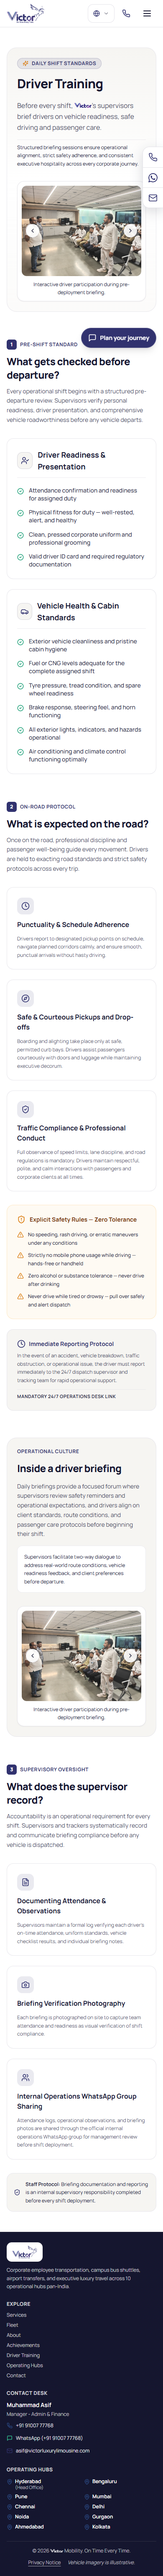
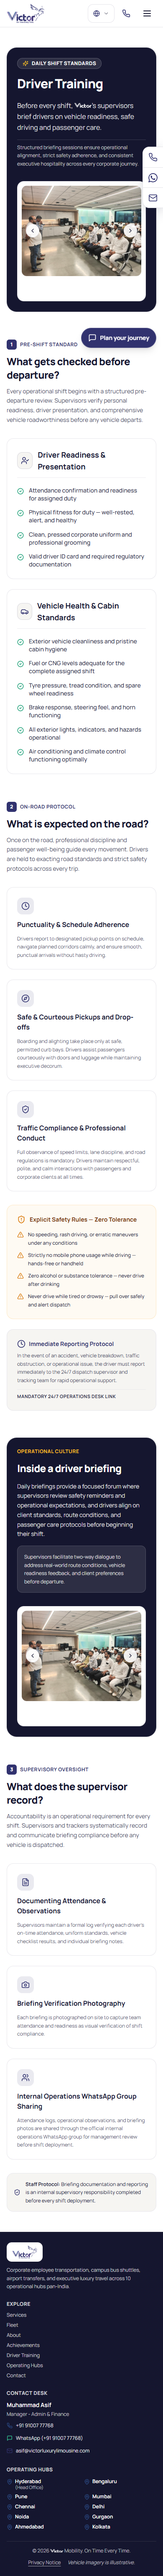
updated driver training page

Changed region(s): [[0.0308, 0.5608, 0.9846, 0.6855], [0.0308, 0.0, 0.9846, 0.1246]]

diff --git a/src/components/training/DriverTrainingGuide.tsx b/src/components/training/DriverTrainingGuide.tsx
@@ -30,28 +30,28 @@ export default function DriverTrainingGuide({ content }: DriverTrainingGuideProp
       {/* 1. Hero & Introduction Section with Group Briefing Photo (Image 1) */}
       <section
         aria-labelledby="driver-training-hero-title"
-        className="rounded-3xl bg-gradient-to-b from-brand-warm-white via-white to-brand-warm-white/40 border border-brand-soft-neutral/80 p-6 sm:p-10 lg:p-12 shadow-xs"
+        className="rounded-3xl bg-[#15162F] border border-white/10 p-6 sm:p-10 lg:p-12 shadow-xs text-white"
       >
         <div className="grid grid-cols-1 lg:grid-cols-12 gap-8 lg:gap-10 xl:gap-12 items-center">
           {/* Left Column: Heading and Introduction */}
           <div className="lg:col-span-6 space-y-4">
-            <div className="inline-flex items-center gap-2 px-3 py-1 rounded-full bg-brand-indigo/10 border border-brand-indigo/20 text-brand-indigo text-xs font-bold uppercase tracking-wider">
-              <Sparkles className="w-3.5 h-3.5 text-amber-600" />
+            <div className="inline-flex items-center gap-2 px-3 py-1 rounded-full bg-white/10 border border-white/20 text-white text-xs font-bold uppercase tracking-wider">
+              <Sparkles className="w-3.5 h-3.5 text-amber-400" />
               <span>{eyebrow}</span>
             </div>
 
             <h1
               id="driver-training-hero-title"
-              className="text-3xl sm:text-4xl lg:text-5xl font-extrabold text-brand-ink tracking-tight leading-tight"
+              className="text-3xl sm:text-4xl lg:text-5xl font-extrabold text-white tracking-tight leading-tight"
             >
               <BrandText>{title}</BrandText>
             </h1>
 
-            <p className="text-base sm:text-lg text-brand-ink/80 leading-relaxed font-normal pt-1">
+            <p className="text-base sm:text-lg text-white/85 leading-relaxed font-normal pt-1">
               <BrandText>{intro}</BrandText>
             </p>
 
-            <div className="pt-2 text-xs sm:text-sm text-brand-slate leading-relaxed border-t border-brand-soft-neutral/70">
+            <div className="pt-2 text-xs sm:text-sm text-white/70 leading-relaxed border-t border-white/15">
               <p>
                 Structured briefing sessions ensure operational alignment, strict safety adherence, and consistent executive hospitality across every corporate journey.
               </p>
@@ -231,7 +231,7 @@ export default function DriverTrainingGuide({ content }: DriverTrainingGuideProp
       <section
         id={insideBriefing.id}
         aria-labelledby="inside-briefing-heading"
-        className="rounded-3xl bg-brand-warm-white border border-brand-soft-neutral/80 p-6 sm:p-10 lg:p-12 shadow-xs"
+        className="rounded-3xl bg-[#15162F] border border-white/10 p-6 sm:p-10 lg:p-12 shadow-xs text-white"
       >
         <div className="grid grid-cols-1 lg:grid-cols-12 gap-8 lg:gap-10 items-center">
           {/* Bottom Slideshow: Exactly the same collection of 9 photographs */}
@@ -244,19 +244,19 @@ export default function DriverTrainingGuide({ content }: DriverTrainingGuideProp
 
           {/* Contextual Narrative */}
           <div className="lg:col-span-6 space-y-4 order-1 lg:order-2">
-            <span className="uppercase text-brand-indigo font-bold text-xs tracking-wider block">
+            <span className="uppercase text-amber-400 font-bold text-xs tracking-wider block">
               Operational Culture
             </span>
             <h2
               id="inside-briefing-heading"
-              className="text-2xl sm:text-3xl lg:text-4xl font-extrabold text-brand-ink tracking-tight"
+              className="text-2xl sm:text-3xl lg:text-4xl font-extrabold text-white tracking-tight"
             >
               <BrandText>{insideBriefing.title}</BrandText>
             </h2>
-            <p className="text-sm sm:text-base text-brand-ink/80 leading-relaxed font-normal">
+            <p className="text-sm sm:text-base text-white/85 leading-relaxed font-normal">
               <BrandText>{insideBriefing.description}</BrandText>
             </p>
-            <div className="p-4 rounded-xl bg-white border border-brand-soft-neutral/70 text-xs text-brand-slate leading-relaxed">
+            <div className="p-4 rounded-xl bg-white/10 border border-white/15 text-xs text-white/80 leading-relaxed">
               Supervisors facilitate two-way dialogue to address real-world route conditions, vehicle readiness feedback, and client preferences before departure.
             </div>
           </div>

diff --git a/docs/handoff.md b/docs/handoff.md
@@ -1,5 +1,38 @@
 # Handoff
 
+## 20 November 2026 — Driver Training Page Dark Container Styling (#15162F)
+
+Owner: Antigravity, at direct user request. Status: COMPLETED.
+
+Updated the background color of the **Daily Shift Standards** (hero) and **Operational Culture** (Inside a driver briefing) containers on the Driver Training page ([`/india/driver-training`](file:///d:/victor%20website/src/app/india/driver-training/page.tsx)) to Victor brand ink `#15162F`:
+
+1. **Daily Shift Standards Hero Container**:
+   - Container background set to `#15162F` (`bg-[#15162F]`) with subtle `border-white/10` and `rounded-3xl`.
+   - Translucent frosted pill badge with amber sparkle (`Sparkles className="text-amber-400"`) for "Daily Shift Standards".
+   - High-contrast white typography (`text-white`) for the main heading and intro description (`text-white/85`).
+   - Clean border divider (`border-white/15`) with accessible secondary description text (`text-white/70`).
+   - Retained the high-fidelity white framed slideshow card on the right containing all 9 authentic Victor Mobility training photographs.
+
+2. **Operational Culture Container ("Inside a driver briefing")**:
+   - Container background set to `#15162F` (`bg-[#15162F]`) with subtle `border-white/10` and `rounded-3xl`.
+   - Eyebrow styled with bold warm amber uppercase lettering (`text-amber-400 font-bold text-xs tracking-wider`).
+   - Heading updated to clean white typography (`text-white font-extrabold`) and description to `text-white/85`.
+   - Sub-card updated to translucent dark card (`bg-white/10 border-white/15 text-white/80`) maintaining readability.
+   - Retained the matching 9-photograph slideshow on the left with clean navigation controls.
+
+3. **Quality Gates & Verification**:
+   - TypeScript (`npm run type-check`): 0 errors.
+   - ESLint (`npm run lint`): 0 warnings or errors.
+   - Production build (`npm run build`): All 71 static pages compiled cleanly with exit code 0.
+   - Playwright verification:
+     - Confirmed computed background-color for both containers equals `rgb(21, 22, 47)` (`#15162F`).
+     - Verified zero horizontal overflow on desktop (1440px) and mobile (390px).
+     - Captured fresh screenshots:
+       - [`screenshots/top-slideshow.png`](file:///d:/victor%20website/screenshots/top-slideshow.png)
+       - [`screenshots/bottom-slideshow.png`](file:///d:/victor%20website/screenshots/bottom-slideshow.png)
+       - [`screenshots/driver-training-desktop.png`](file:///d:/victor%20website/screenshots/driver-training-desktop.png)
+       - [`screenshots/driver-training-mobile.png`](file:///d:/victor%20website/screenshots/driver-training-mobile.png)
+
 ## 19 November 2026 — Added Signature Employee Team Highlight to Achievements Page
 
 Owner: Antigravity, at direct user request. Status: COMPLETED.
